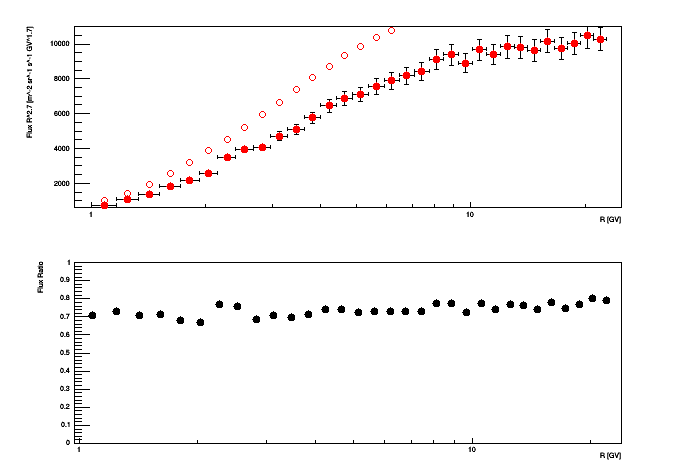
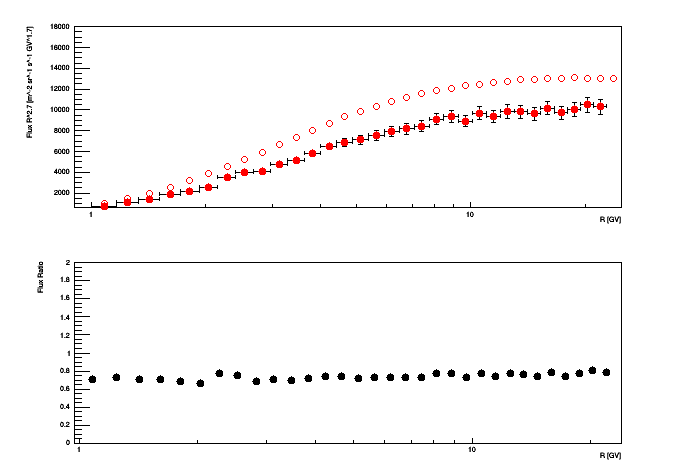
update 29-01-21

diff --git a/FullAnalysis.C b/FullAnalysis.C
@@ -1091,7 +1091,7 @@ void Anaaqra::Flux(bool comp = 0) {
   c_SFlux->SetLogy();
   p_sflux_graph->GetXaxis()->SetTitle("R [GV]");
   p_sflux_graph->GetYaxis()->SetTitle("Flux R^2.7 [m^-2 sr^-1 s^-1 GV^1.7]");
-  p_sflux_graph->SetMaximum(11000);
+  p_sflux_graph->SetMaximum(18000);
   // Second split
   c_SFlux->cd(2);
   p_sflux_ratio->Draw("AP");
@@ -1103,7 +1103,7 @@ void Anaaqra::Flux(bool comp = 0) {
   c_SFlux->SetLogy(0);
   p_sflux_ratio->GetXaxis()->SetTitle("R [GV]");
   p_sflux_ratio->GetYaxis()->SetTitle("Flux Ratio");
-  p_sflux_ratio->SetMaximum(1); p_sflux_ratio->SetMinimum(0);
+  p_sflux_ratio->SetMaximum(2); p_sflux_ratio->SetMinimum(0);
 
   // Print
   c_SFlux->Draw();
